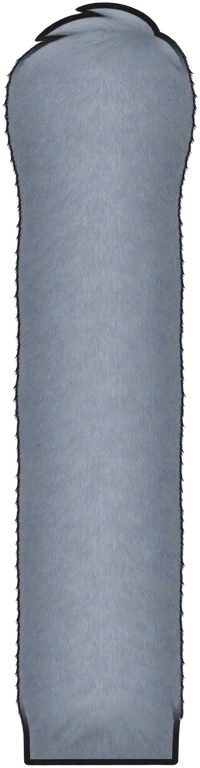
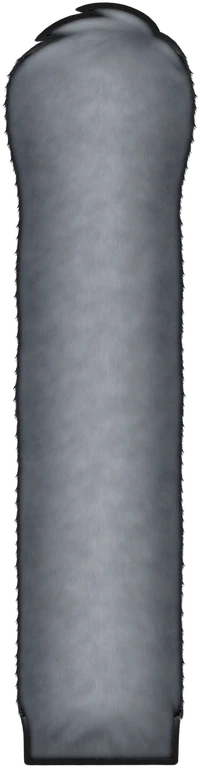
英短蓝猫去掉雾感：蓝度减半、拉开明暗、压淡细毛纹，眨眼眼皮改用眼周毛色

diff --git a/prototype/style.css b/prototype/style.css
@@ -137,6 +137,10 @@ html[data-cat="blue"] {
   --coat-nose: #6b6f7c;
   --coat-blush-opacity: 0.2;
 }
+html[data-cat="blue"]:not([data-art-style="line"]) {
+  --coat-lid-l: #868c93; /* 眼周毛色，取自 head.webp */
+  --coat-lid-r: #868c93;
+}
 html[data-cat="white"] {
   --coat-base: #fffdf8;
   --coat-iris-l: #6cb8ec;
